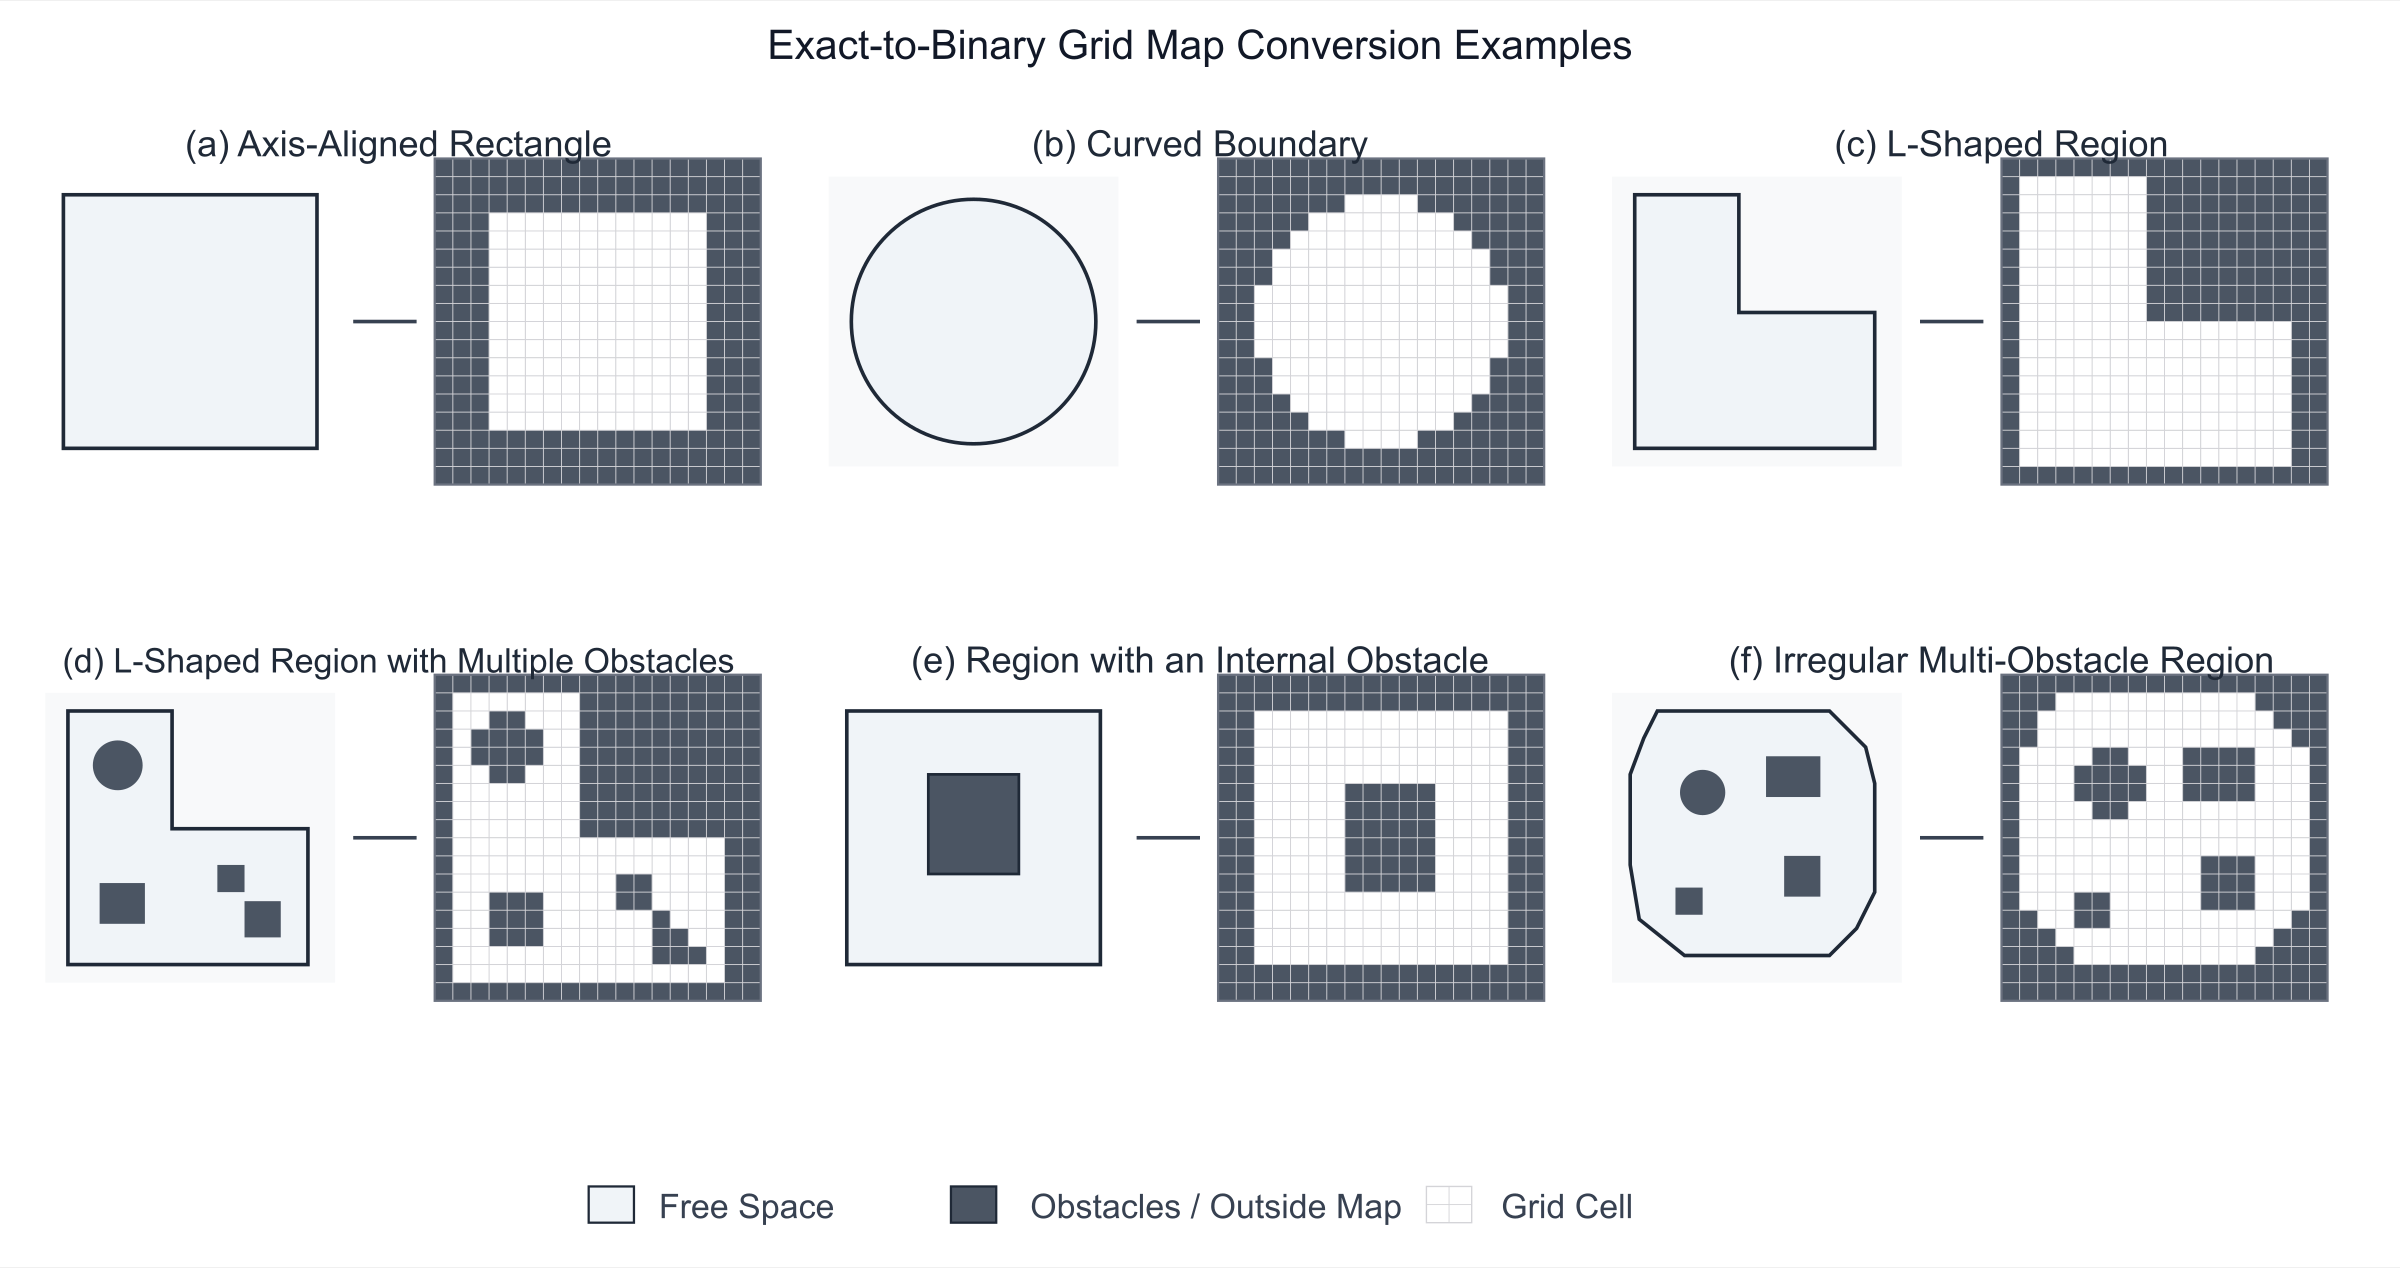
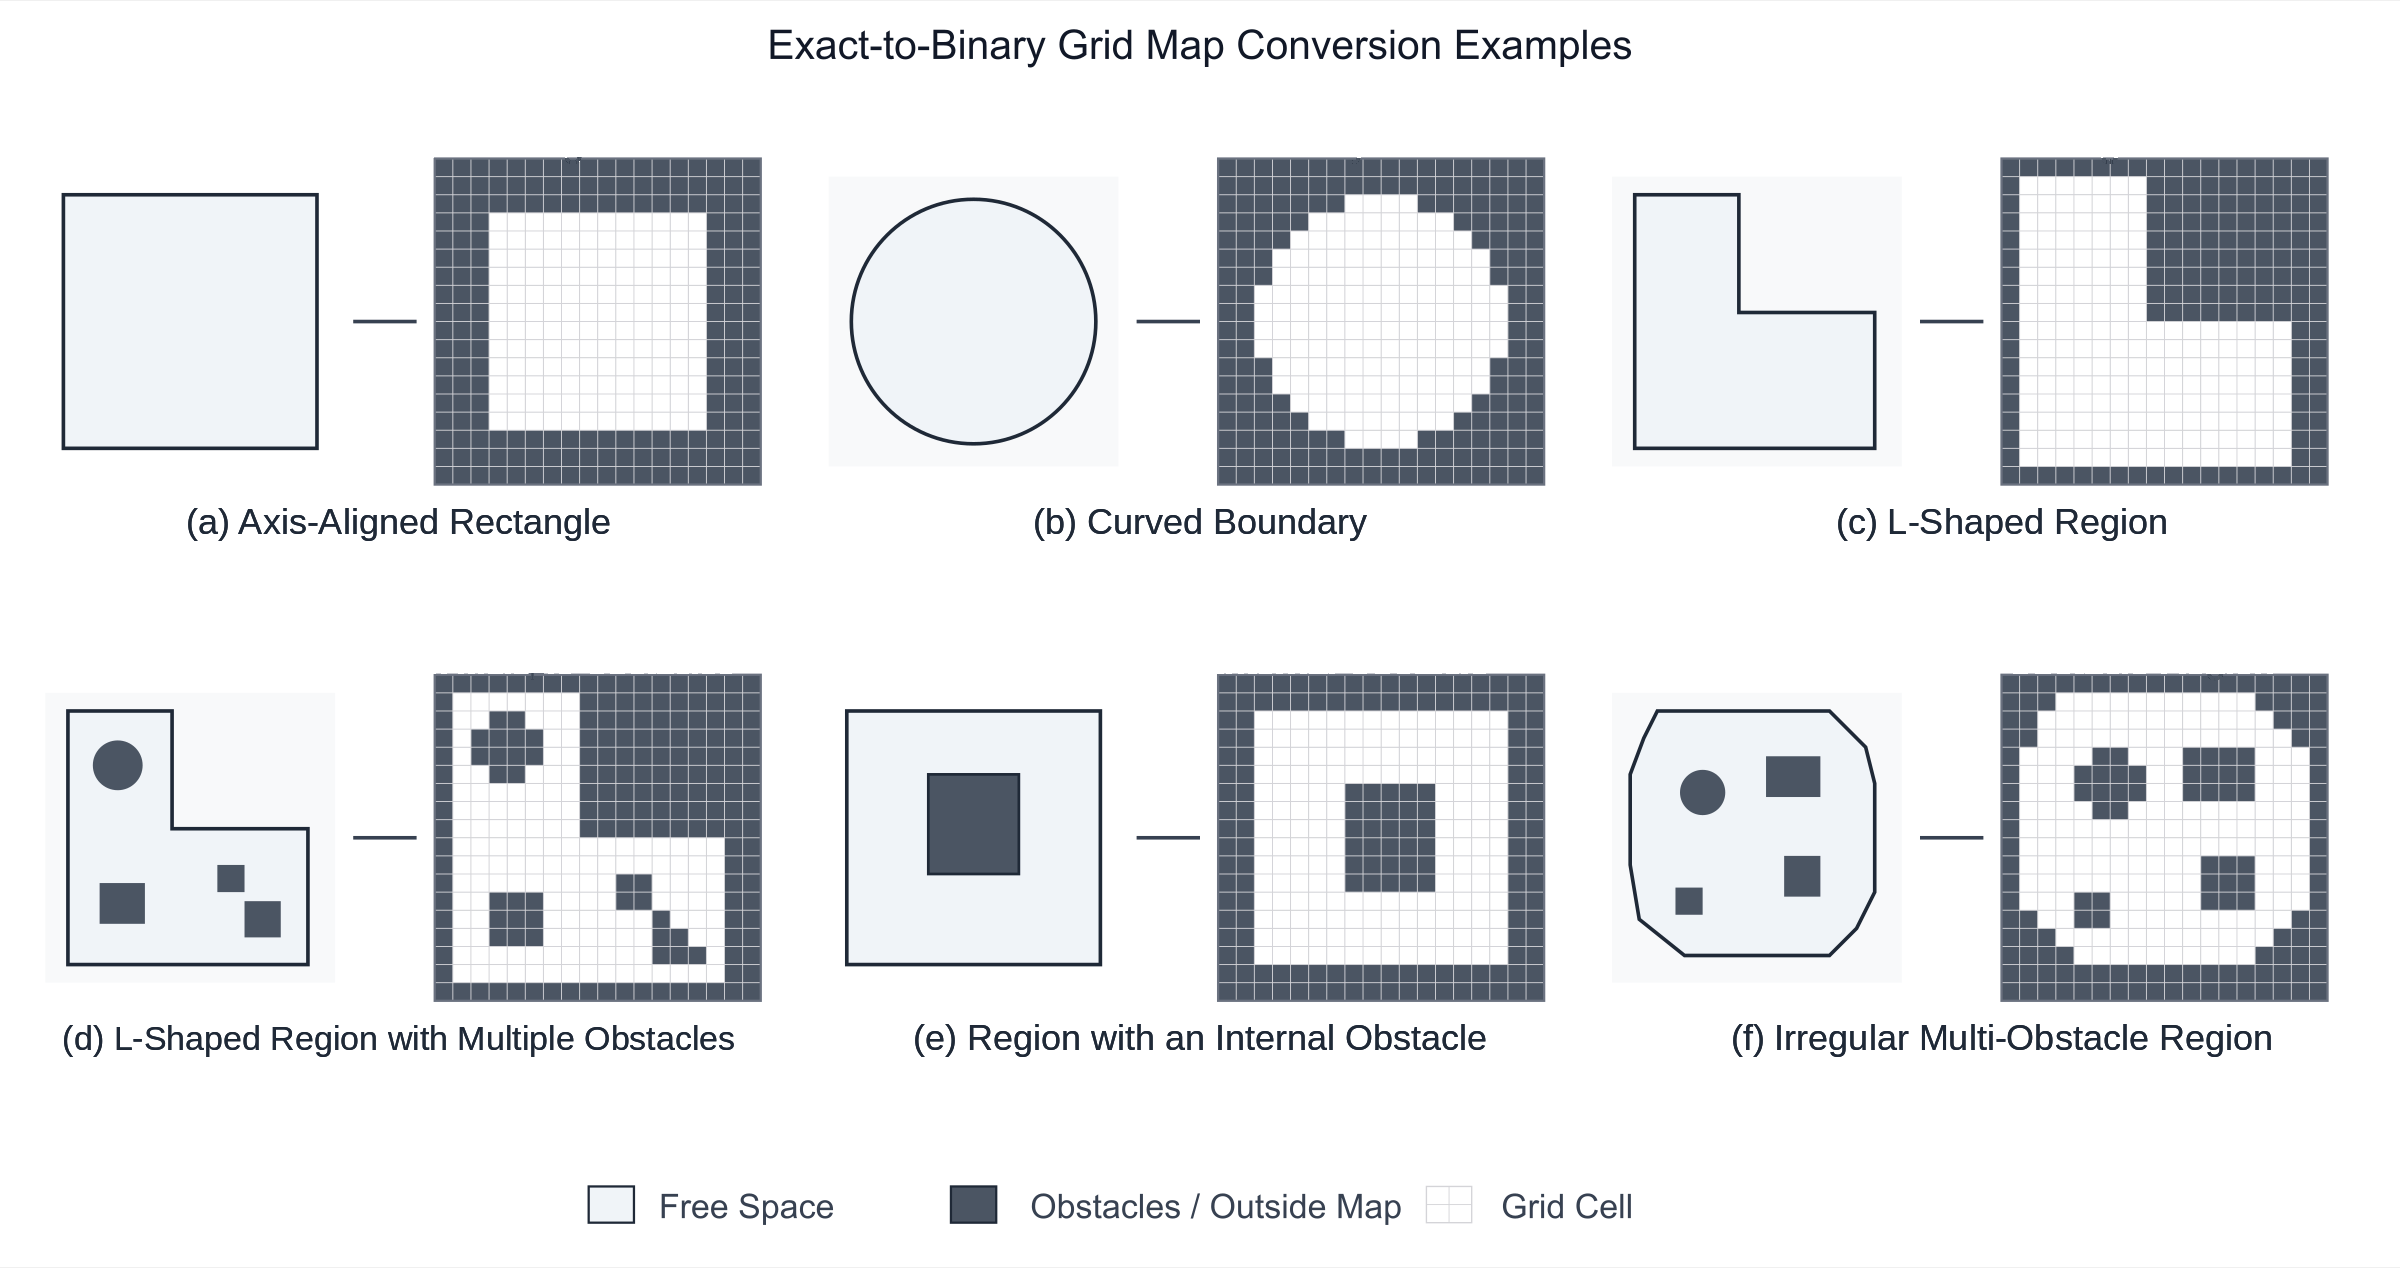
docs: move Figure 4 subplot titles under the panels
Clear the in-image titles from above each panel and redraw them in the gap below. The lower-right black cluster in panel (d) already matches the obstacles, so those cells stay.

diff --git a/scripts/figures/move_raster_titles.py b/scripts/figures/move_raster_titles.py
@@ -1,0 +1,161 @@
+"""Move Figure 4 subplot titles from above each panel to below it.
+
+The panel artwork stays. Old title ink is cleared, including the light
+antialiasing, and the same six strings are drawn under the panels. A few
+descender pixels that sat on a grid stroke are restored to that stroke.
+The SVG baselines move with the titles. Running again redraws the same labels.
+"""
+
+from pathlib import Path
+
+import numpy as np
+from PIL import Image, ImageDraw, ImageFont
+
+ROOT = Path(__file__).resolve().parents[2]
+SVG = ROOT / "assets" / "svg_sources" / "transfer.svg"
+PNG = ROOT / "english_paper" / "figures" / "figure_3_geometric_to_binary_raster.png"
+FONT = Path("/usr/share/fonts/truetype/liberation/LiberationSans-Regular.ttf")
+
+TEXT = np.array([31, 41, 55], dtype=np.int16)
+STROKE = np.array([75, 85, 99], dtype=np.int16)
+# Pixel shift matching the SVG baseline move 34.5 -> 118 and 148.5 -> 232.
+SHIFT = 378
+SCALE_X = 2400 / 530
+
+# (svg_x, source baseline y, text, fit width or None)
+TITLES = (
+    (88, 156, "(a) Axis-Aligned Rectangle", None),
+    (265, 156, "(b) Curved Boundary", None),
+    (442, 156, "(c) L-Shaped Region", None),
+    (88, 672, "(d) L-Shaped Region with Multiple Obstacles", 667),
+    (265, 672, "(e) Region with an Internal Obstacle", None),
+    (442, 672, "(f) Irregular Multi-Obstacle Region", None),
+)
+WINDOWS = ((128, 167), (644, 684))
+
+
+def _update_svg() -> None:
+    text = SVG.read_text(encoding="utf-8")
+    if 'y="34.5"' in text or 'y="148.5"' in text:
+        text = text.replace('y="34.5"', 'y="118"').replace('y="148.5"', 'y="232"')
+    if text.count('y="118"') != 3 or text.count('y="232"') != 3:
+        raise SystemExit("SVG title baselines did not land on the six subplot titles")
+    SVG.write_text(text, encoding="utf-8")
+
+
+def _dilate(mask: np.ndarray, radius: int) -> np.ndarray:
+    out = mask.copy()
+    for dy in range(-radius, radius + 1):
+        for dx in range(-radius, radius + 1):
+            if max(abs(dy), abs(dx)) > radius:
+                continue
+            shifted = np.zeros_like(mask)
+            y0 = max(0, dy)
+            y1 = mask.shape[0] + min(0, dy)
+            x0 = max(0, dx)
+            x1 = mask.shape[1] + min(0, dx)
+            shifted[y0:y1, x0:x1] = mask[y0 - dy:y1 - dy, x0 - dx:x1 - dx]
+            out |= shifted
+    return out
+
+
+def _clear_old_titles(array: np.ndarray) -> np.ndarray:
+    """Return the raster with subplot-title ink removed and panels unchanged."""
+    original = array.copy()
+    distance = np.linalg.norm(original.astype(np.int16) - TEXT, axis=2)
+    exact = np.all(original == STROKE, axis=2)
+    title = np.zeros(array.shape[:2], dtype=bool)
+    # Windows cover the six subplot titles, including descenders, and not the
+    # figure title or the legend.
+    for y0, y1 in ((128, 172), (643, 692)):
+        title[y0:y1] = distance[y0:y1] < 58
+    title = _dilate(title, 2)
+    # A pixel next to the grid stroke is panel ink unless it is the title core.
+    near_stroke = _dilate(exact, 1)
+    title &= ~near_stroke | (distance < 36)
+    array[title & ~near_stroke] = 255
+    array[title & near_stroke] = STROKE
+    # Anything that was not title ink is copied back, so grid edges stay put.
+    array[~title] = original[~title]
+    # The grid's antialiased top is a uniform color. Put those pixels back even
+    # when a descender was drawn over them, then fill any remaining text-colored
+    # hole from the neighboring grid pixel.
+    edge_colors = (
+        (165, 169, 178),
+        (107, 114, 128),
+        (96, 105, 118),
+        (104, 112, 125),
+        (99, 107, 119),
+        (78, 87, 101),
+        (85, 95, 108),
+    )
+    grid = np.all(original == STROKE, axis=2)
+    for color in edge_colors:
+        match = np.all(original == color, axis=2)
+        array[match] = color
+        grid |= match
+    white_now = np.all(array == 255, axis=2)
+    was_text = distance < 36
+    holes = white_now & was_text & _dilate(grid, 1)
+    array[holes] = STROKE
+    _fill_notches(array)
+    return original
+
+
+def _fill_notches(array: np.ndarray) -> None:
+    """Close descender gaps that sit inside the dark top edge of a raster."""
+    height, width = array.shape[:2]
+    for _ in range(6):
+        filled = 0
+        for y in list(range(157, 166)) + list(range(673, 686)):
+            for x in range(1, width - 1):
+                if array[y, x].max() > 250 and array[y + 1, x].max() < 150:
+                    if array[y, x - 1].max() < 150 or array[y, x + 1].max() < 150 or array[y - 1, x].max() < 150:
+                        donors = []
+                        for dy, dx in ((1, 0), (0, -1), (0, 1), (-1, 0)):
+                            sample = array[y + dy, x + dx]
+                            if sample.max() < 150:
+                                donors.append(sample)
+                        if donors:
+                            array[y, x] = donors[0]
+                            filled += 1
+        if filled == 0:
+            break
+
+
+def _draw_titles(image: Image.Image) -> None:
+    draw = ImageDraw.Draw(image)
+    font = ImageFont.truetype(str(FONT), 36)
+    fill = (31, 41, 55)
+    for svg_x, baseline, text, fit in TITLES:
+        cx = svg_x * SCALE_X
+        used = font
+        if fit is not None:
+            width = font.getbbox(text)[2] - font.getbbox(text)[0]
+            size = max(8, int(round(36 * fit / width)))
+            used = ImageFont.truetype(str(FONT), size)
+        draw.text((cx, baseline + SHIFT), text, font=used, fill=fill, anchor="ms")
+
+
+def main() -> None:
+    _update_svg()
+    image = Image.open(PNG).convert("RGB")
+    if image.size != (2400, 1268):
+        raise SystemExit(f"unexpected raster size {image.size}")
+    array = np.array(image)
+    distance = np.linalg.norm(array.astype(np.int16) - TEXT, axis=2)
+    source = int((distance[128:172] < 36).sum() + (distance[643:692] < 36).sum())
+    dest = int((distance[500:560] < 36).sum() + (distance[1000:1070] < 36).sum())
+    if source < 200 and dest > 2000:
+        print("titles already sit below the panels")
+        print(PNG)
+        return
+    _clear_old_titles(array)
+    cleaned = Image.fromarray(array, mode="RGB")
+    _draw_titles(cleaned)
+    cleaned.save(PNG)
+    print(PNG)
+
+
+if __name__ == "__main__":
+    main()

diff --git a/notes/progress-B.md b/notes/progress-B.md
@@ -16,8 +16,15 @@
 
   Output: `english_paper/figures/pipeline_overall_improved_en.png`. Source text: `assets/svg_sources/pipeline_overall_improved_en.svg`.
 
-- [ ] 48. Figure 4 subplot titles.
-- [ ] 49. Figure 4(d) black cluster.
+- [x] 48. Figure 4 subplot titles now sit under each panel. The main title stays on top, and the LaTeX caption is untouched.
+
+  ```bash
+  python scripts/figures/move_raster_titles.py
+  ```
+
+  Output: `english_paper/figures/figure_3_geometric_to_binary_raster.png`. Baselines in `assets/svg_sources/transfer.svg` are `y="118"` and `y="232"`.
+
+- [x] 49. The lower-right black cluster in Figure 4(d) agrees with the two rectangles in the horizontal arm of the left-hand geometry. The check is in `notes/codebase-map.md` under “Figure 4(d) black cluster”. Those cells were not redrawn, and no caption was added.
 - [ ] 63. Principle figures for 3.5.2 and 3.5.3.
 - [ ] 67. Section 3.7 schematic.
 - [ ] 70. In-figure map names.
